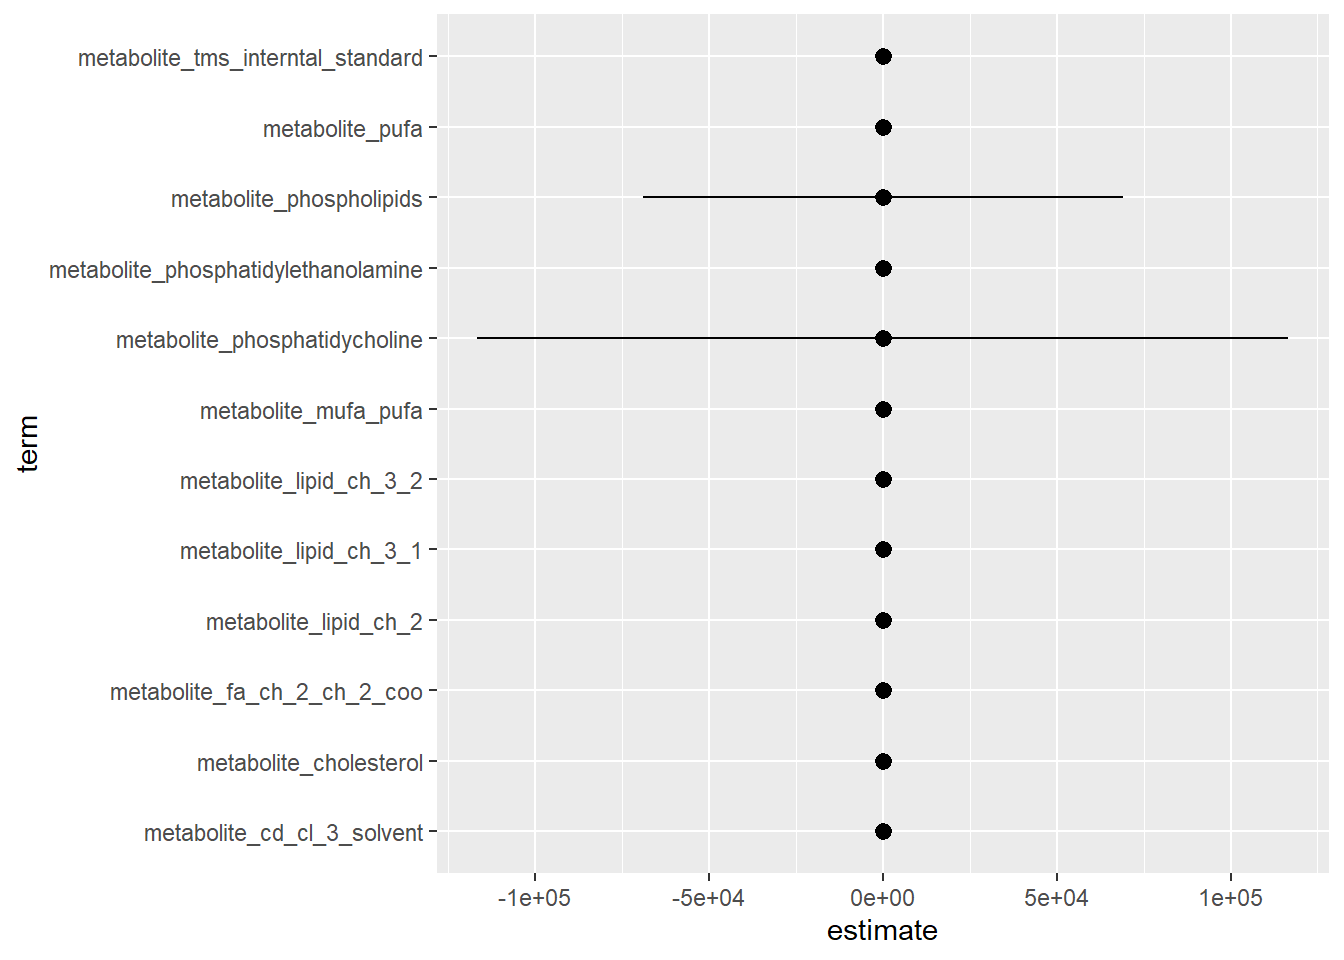
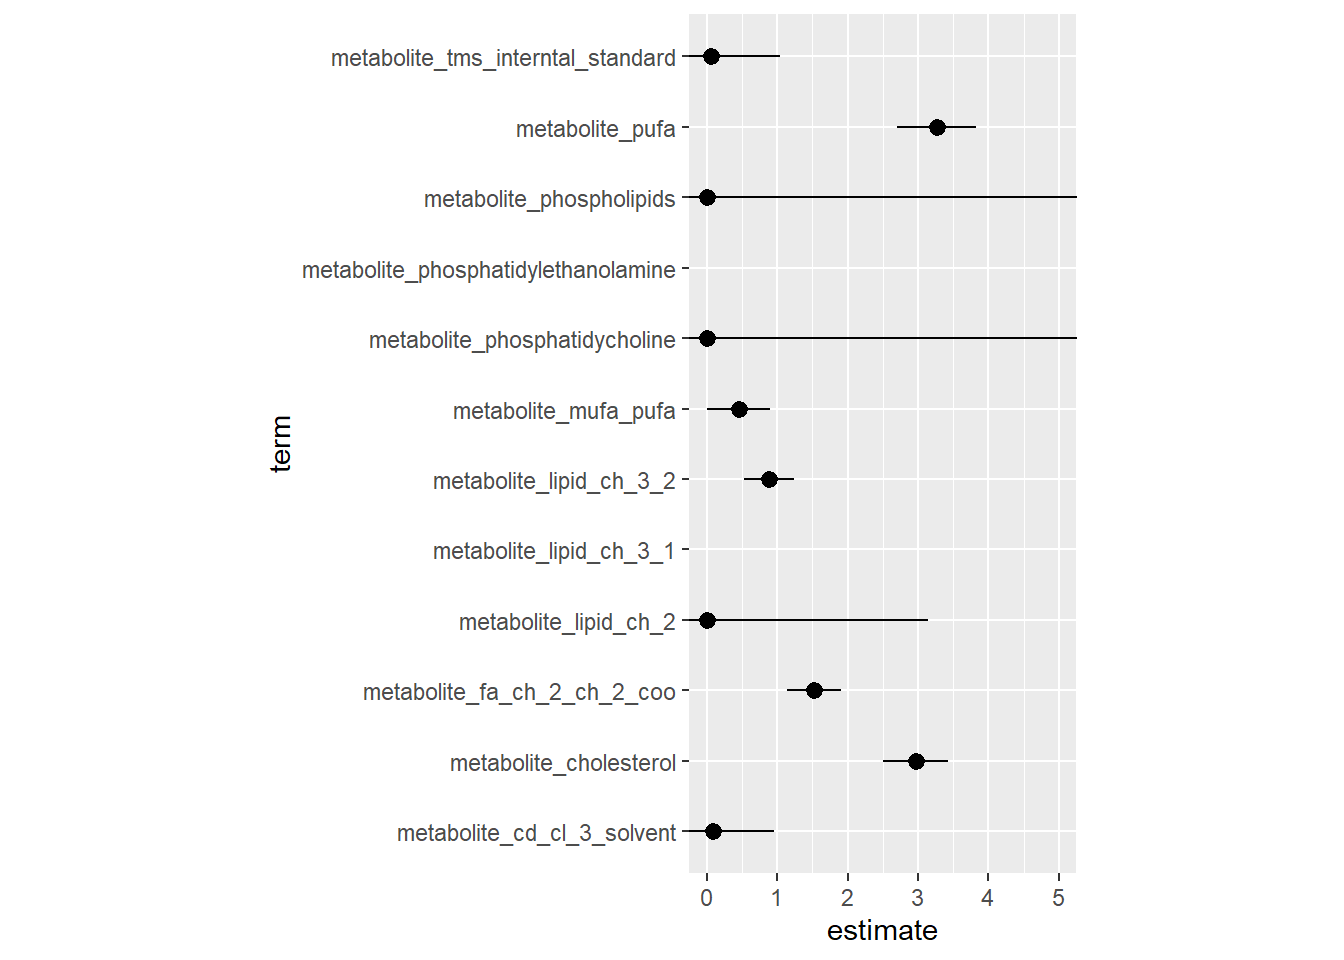
started the website

diff --git a/doc/learning.html b/doc/learning.html
@@ -6,7 +6,7 @@
 
 <meta name="viewport" content="width=device-width, initial-scale=1.0, user-scalable=yes">
 
-<meta name="author" content="Your Name">
+<meta name="author" content="Barbaros Eroglu">
 
 <title>Draft Quarto document</title>
 <style>
@@ -84,16 +84,23 @@ pre > code.sourceCode > span > a:first-child::before { text-decoration: underlin
 </div>
 
 
+<div class="quarto-title-meta-author">
+  <div class="quarto-title-meta-heading">Author</div>
+  <div class="quarto-title-meta-heading">Affiliation</div>
+  
+    <div class="quarto-title-meta-contents">
+    <p class="author">Barbaros Eroglu </p>
+  </div>
+    <div class="quarto-title-meta-contents">
+        <p class="affiliation">
+            German Institute of Human Nutrition
+          </p>
+      </div>
+    </div>
 
 <div class="quarto-title-meta">
 
-    <div>
-    <div class="quarto-title-meta-heading">Author</div>
-    <div class="quarto-title-meta-contents">
-             <p>Your Name </p>
-          </div>
-  </div>
-    
+      
   
     
   </div>
@@ -133,7 +140,7 @@ pre > code.sourceCode > span > a:first-child::before { text-decoration: underlin
 ✖ dplyr::lag()      masks stats::lag()
 ✖ yardstick::spec() masks readr::spec()
 ✖ recipes::step()   masks stats::step()
-• Dig deeper into tidy modeling with R at https://www.tmwr.org</code></pre>
+• Use suppressPackageStartupMessages() to eliminate package startup messages</code></pre>
 </div>
 <div class="sourceCode cell-code" id="cb5"><pre class="sourceCode r code-with-copy"><code class="sourceCode r"><span id="cb5-1"><a href="#cb5-1" aria-hidden="true" tabindex="-1"></a><span class="fu">source</span>(here<span class="sc">::</span><span class="fu">here</span>(<span class="st">"R/functions.R"</span>))</span>
 <span id="cb5-2"><a href="#cb5-2" aria-hidden="true" tabindex="-1"></a>lipidomics <span class="ot">&lt;-</span> <span class="fu">tar_read</span>(lipidomics)</span></code><button title="Copy to Clipboard" class="code-copy-button"><i class="bi"></i></button></pre></div>
@@ -304,28 +311,9 @@ Warning: glm.fit: fitted probabilities numerically 0 or 1 occurred</code></pre>
 <div class="sourceCode cell-code" id="cb18"><pre class="sourceCode r code-with-copy"><code class="sourceCode r"><span id="cb18-1"><a href="#cb18-1" aria-hidden="true" tabindex="-1"></a>model_estimates <span class="ot">&lt;-</span> <span class="fu">tar_read</span>(df_model_estimates)</span></code><button title="Copy to Clipboard" class="code-copy-button"><i class="bi"></i></button></pre></div>
 </div>
 <div class="cell">
-<div class="sourceCode cell-code" id="cb19"><pre class="sourceCode r code-with-copy"><code class="sourceCode r"><span id="cb19-1"><a href="#cb19-1" aria-hidden="true" tabindex="-1"></a>plot_estimates <span class="ot">&lt;-</span> model_estimates <span class="sc">%&gt;%</span> </span>
-<span id="cb19-2"><a href="#cb19-2" aria-hidden="true" tabindex="-1"></a>    <span class="fu">ggplot</span>(<span class="fu">aes</span>(</span>
-<span id="cb19-3"><a href="#cb19-3" aria-hidden="true" tabindex="-1"></a>        <span class="at">x =</span> estimate,</span>
-<span id="cb19-4"><a href="#cb19-4" aria-hidden="true" tabindex="-1"></a>        <span class="at">y =</span> term,</span>
-<span id="cb19-5"><a href="#cb19-5" aria-hidden="true" tabindex="-1"></a>        <span class="at">xmin =</span> estimate <span class="sc">-</span> std.error,</span>
-<span id="cb19-6"><a href="#cb19-6" aria-hidden="true" tabindex="-1"></a>        <span class="at">xmax =</span> estimate <span class="sc">+</span> std.error</span>
-<span id="cb19-7"><a href="#cb19-7" aria-hidden="true" tabindex="-1"></a>    )) <span class="sc">+</span></span>
-<span id="cb19-8"><a href="#cb19-8" aria-hidden="true" tabindex="-1"></a>    <span class="fu">geom_pointrange</span>()</span>
-<span id="cb19-9"><a href="#cb19-9" aria-hidden="true" tabindex="-1"></a>plot_estimates</span></code><button title="Copy to Clipboard" class="code-copy-button"><i class="bi"></i></button></pre></div>
+<div class="sourceCode cell-code" id="cb19"><pre class="sourceCode r code-with-copy"><code class="sourceCode r"><span id="cb19-1"><a href="#cb19-1" aria-hidden="true" tabindex="-1"></a><span class="fu">tar_read</span>(fig_model_estimates)</span></code><button title="Copy to Clipboard" class="code-copy-button"><i class="bi"></i></button></pre></div>
 <div class="cell-output-display">
 <p><img src="learning_files/figure-html/unnamed-chunk-6-1.png" class="img-fluid" width="672"></p>
-</div>
-<div class="sourceCode cell-code" id="cb20"><pre class="sourceCode r code-with-copy"><code class="sourceCode r"><span id="cb20-1"><a href="#cb20-1" aria-hidden="true" tabindex="-1"></a>plot_estimates <span class="sc">+</span></span>
-<span id="cb20-2"><a href="#cb20-2" aria-hidden="true" tabindex="-1"></a>    <span class="fu">coord_fixed</span>(<span class="at">xlim =</span> <span class="fu">c</span>(<span class="dv">0</span>,<span class="dv">5</span>))</span></code><button title="Copy to Clipboard" class="code-copy-button"><i class="bi"></i></button></pre></div>
-<div class="cell-output-display">
-<p><img src="learning_files/figure-html/unnamed-chunk-6-2.png" class="img-fluid" width="672"></p>
-</div>
-</div>
-<div class="cell">
-<div class="sourceCode cell-code" id="cb21"><pre class="sourceCode r code-with-copy"><code class="sourceCode r"><span id="cb21-1"><a href="#cb21-1" aria-hidden="true" tabindex="-1"></a><span class="fu">tar_read</span>(fig_model_estimates)</span></code><button title="Copy to Clipboard" class="code-copy-button"><i class="bi"></i></button></pre></div>
-<div class="cell-output-display">
-<p><img src="learning_files/figure-html/unnamed-chunk-7-1.png" class="img-fluid" width="672"></p>
 </div>
 </div>
 </section>
